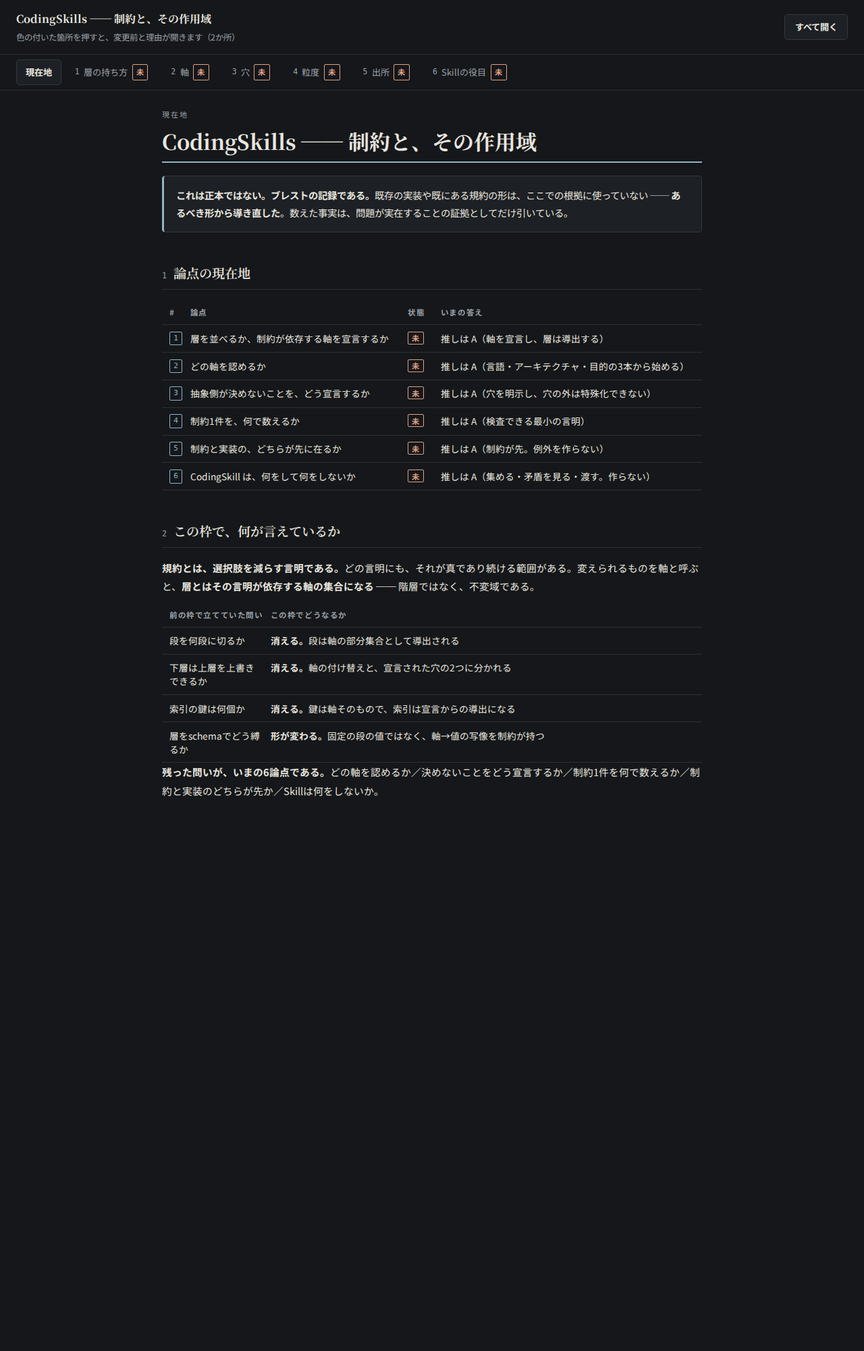
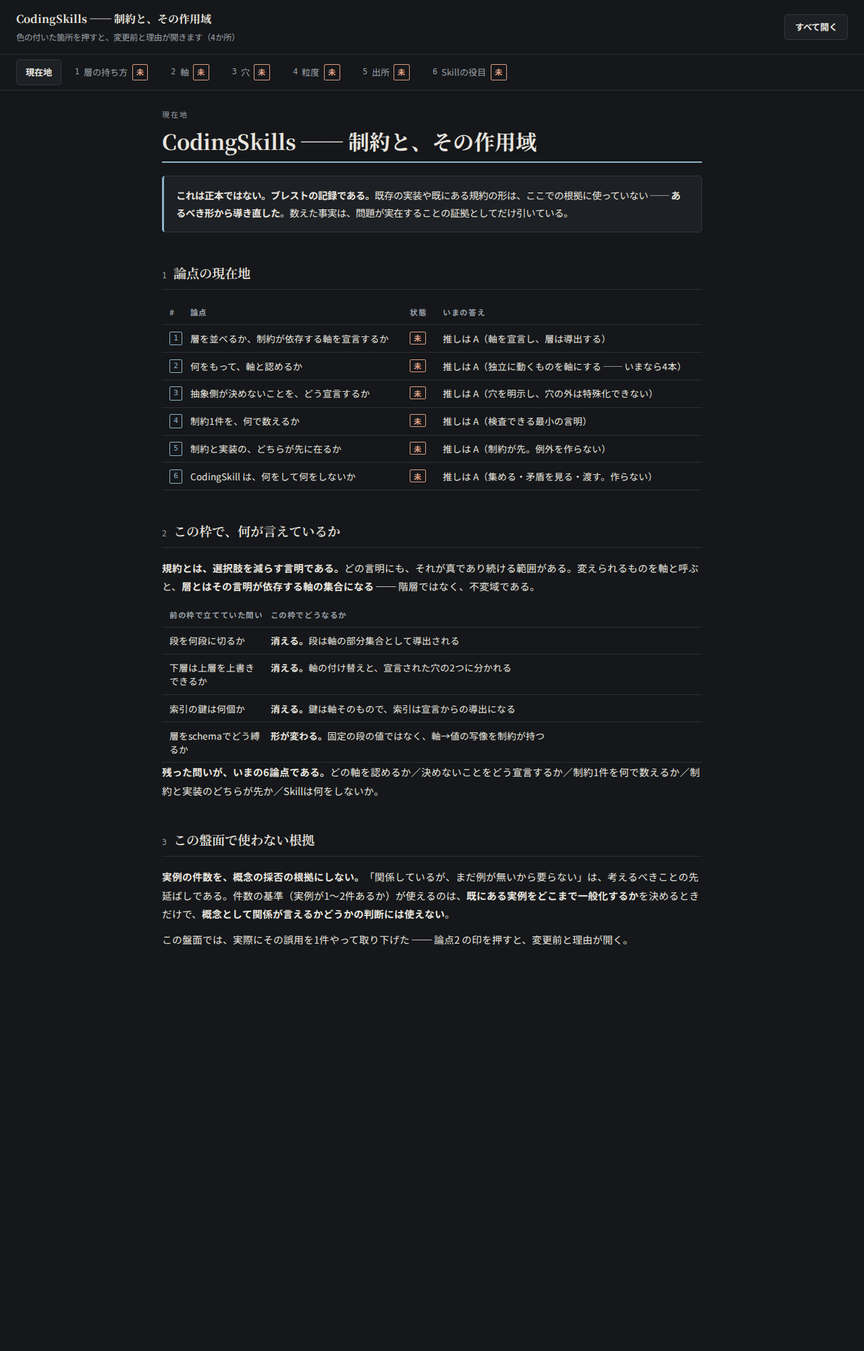
軸の判定を、実例の有無から独立性へ戻す
論点2 を「どの軸を認めるか」から「何をもって軸と認めるか」へ立て直した。
一方を固定してももう一方が動くなら別の軸である ── 独立性は概念の性質であり、
観測の頻度ではない。実行環境は目的と独立に動く（同じ API を常駐でも都度起動でも
書ける）ので、いま軸に上げる。「実例が出てから軸に上げる」は落とした案へ移し、
盤面には変更前と理由を印として残した。

Why: 「実例が出た時点で軸に上げる」と判断していた。これは実例2件以上という
抽象化のタイミングの基準を、概念どうしの関係の判断へ当てた誤用で、同じ誤用が
4度目になる。引いていた architecture-evidence-based-scope 自身が、項目13・19・20
で私の使い方を除外していたのに、見出しの原則2 だけを当てていた。

Claude-Session: https://claude.ai/code/session_01VoPqHBXHr7Npdh9tNXyFNU

Changed region(s): [[0.1875, 0.62, 0.7812, 0.713], [0.4688, 0.217, 0.7812, 0.372], [0.2188, 0.248, 0.3438, 0.279]]

diff --git a/docs/adr/brainstorm-coding-skills.html b/docs/adr/brainstorm-coding-skills.html
@@ -98,7 +98,7 @@ mark.chg.del b{text-decoration:line-through}
 .st.done{color:var(--key);border-color:var(--key)}
 .st.open{color:var(--add);border-color:var(--add)}
 section[role="tabpanel"][hidden]{display:none}
-</style><div class="hd"><div class="t">CodingSkills ── 制約と、その作用域<small>色の付いた箇所を押すと、変更前と理由が開きます（<span id="n">0</span>か所）</small></div><button id="all" type="button">すべて開く</button></div><div class="tabs" role="tablist"><button role="tab" aria-selected="true" data-t="p0">現在地</button><button role="tab" aria-selected="false" data-t="p1"><span class="tn">1</span>層の持ち方<span class="st open">未</span></button><button role="tab" aria-selected="false" data-t="p2"><span class="tn">2</span>軸<span class="st open">未</span></button><button role="tab" aria-selected="false" data-t="p3"><span class="tn">3</span>穴<span class="st open">未</span></button><button role="tab" aria-selected="false" data-t="p4"><span class="tn">4</span>粒度<span class="st open">未</span></button><button role="tab" aria-selected="false" data-t="p5"><span class="tn">5</span>出所<span class="st open">未</span></button><button role="tab" aria-selected="false" data-t="p6"><span class="tn">6</span>Skillの役目<span class="st open">未</span></button></div><main><section id="p0" role="tabpanel"><p class="eyebrow">現在地</p><h1>CodingSkills ── 制約と、その作用域</h1><div class="note"><b>これは正本ではない。ブレストの記録である。</b>既存の実装や既にある規約の形は、ここでの根拠に使っていない ── <b>あるべき形から導き直した</b>。数えた事実は、問題が実在することの証拠としてだけ引いている。</div><h2><span class="sn">1</span>論点の現在地</h2><div class="scroll"><table class=""><tr><th>#</th><th>論点</th><th>状態</th><th>いまの答え</th></tr><tr><td><span class="n">1</span></td><td>層を並べるか、制約が依存する軸を宣言するか</td><td><span class="st open">未</span></td><td>推しは A（軸を宣言し、層は導出する）</td></tr><tr><td><span class="n">2</span></td><td>どの軸を認めるか</td><td><span class="st open">未</span></td><td>推しは A（言語・アーキテクチャ・目的の3本から始める）</td></tr><tr><td><span class="n">3</span></td><td>抽象側が決めないことを、どう宣言するか</td><td><span class="st open">未</span></td><td>推しは A（穴を明示し、穴の外は特殊化できない）</td></tr><tr><td><span class="n">4</span></td><td>制約1件を、何で数えるか</td><td><span class="st open">未</span></td><td>推しは A（検査できる最小の言明）</td></tr><tr><td><span class="n">5</span></td><td>制約と実装の、どちらが先に在るか</td><td><span class="st open">未</span></td><td>推しは A（制約が先。例外を作らない）</td></tr><tr><td><span class="n">6</span></td><td>CodingSkill は、何をして何をしないか</td><td><span class="st open">未</span></td><td>推しは A（集める・矛盾を見る・渡す。作らない）</td></tr></table></div><h2><span class="sn">2</span>この枠で、何が言えているか</h2><p class='lead'><b>規約とは、選択肢を減らす言明である。</b>どの言明にも、それが真であり続ける範囲がある。変えられるものを軸と呼ぶと、<b>層とはその言明が依存する軸の集合になる</b> ── 階層ではなく、不変域である。</p><div class="scroll"><table class=""><tr><th>前の枠で立てていた問い</th><th>この枠でどうなるか</th></tr><tr><td>段を何段に切るか</td><td><b>消える。</b>段は軸の部分集合として導出される</td></tr><tr><td>下層は上層を上書きできるか</td><td><b>消える。</b>軸の付け替えと、宣言された穴の2つに分かれる</td></tr><tr><td>索引の鍵は何個か</td><td><b>消える。</b>鍵は軸そのもので、索引は宣言からの導出になる</td></tr><tr><td>層をschemaでどう縛るか</td><td><b>形が変わる。</b>固定の段の値ではなく、軸→値の写像を制約が持つ</td></tr></table></div><p class='lead'><b>残った問いが、いまの6論点である。</b>どの軸を認めるか／決めないことをどう宣言するか／制約1件を何で数えるか／制約と実装のどちらが先か／Skillは何をしないか。</p></section><section id="p1" role="tabpanel" hidden><p class="eyebrow">論点 1</p><h1>層を並べるか、制約が依存する軸を宣言するか</h1><div class="note"><b>制約とは、選択肢を減らす言明である。そしてどの制約にも、それが真であり続ける範囲がある。</b>変えられるものを軸と呼ぶと、<b>層とは、その制約が依存する軸の集合になる</b>。</div><h2><span class="sn">1</span>案の違いを、図で</h2><figure><svg viewBox="0 0 780 320" role="img" aria-label="各制約が依存する軸を宣言すると、層はその宣言から導出される">
+</style><div class="hd"><div class="t">CodingSkills ── 制約と、その作用域<small>色の付いた箇所を押すと、変更前と理由が開きます（<span id="n">0</span>か所）</small></div><button id="all" type="button">すべて開く</button></div><div class="tabs" role="tablist"><button role="tab" aria-selected="true" data-t="p0">現在地</button><button role="tab" aria-selected="false" data-t="p1"><span class="tn">1</span>層の持ち方<span class="st open">未</span></button><button role="tab" aria-selected="false" data-t="p2"><span class="tn">2</span>軸<span class="st open">未</span></button><button role="tab" aria-selected="false" data-t="p3"><span class="tn">3</span>穴<span class="st open">未</span></button><button role="tab" aria-selected="false" data-t="p4"><span class="tn">4</span>粒度<span class="st open">未</span></button><button role="tab" aria-selected="false" data-t="p5"><span class="tn">5</span>出所<span class="st open">未</span></button><button role="tab" aria-selected="false" data-t="p6"><span class="tn">6</span>Skillの役目<span class="st open">未</span></button></div><main><section id="p0" role="tabpanel"><p class="eyebrow">現在地</p><h1>CodingSkills ── 制約と、その作用域</h1><div class="note"><b>これは正本ではない。ブレストの記録である。</b>既存の実装や既にある規約の形は、ここでの根拠に使っていない ── <b>あるべき形から導き直した</b>。数えた事実は、問題が実在することの証拠としてだけ引いている。</div><h2><span class="sn">1</span>論点の現在地</h2><div class="scroll"><table class=""><tr><th>#</th><th>論点</th><th>状態</th><th>いまの答え</th></tr><tr><td><span class="n">1</span></td><td>層を並べるか、制約が依存する軸を宣言するか</td><td><span class="st open">未</span></td><td>推しは A（軸を宣言し、層は導出する）</td></tr><tr><td><span class="n">2</span></td><td>何をもって、軸と認めるか</td><td><span class="st open">未</span></td><td>推しは A（独立に動くものを軸にする ── いまなら4本）</td></tr><tr><td><span class="n">3</span></td><td>抽象側が決めないことを、どう宣言するか</td><td><span class="st open">未</span></td><td>推しは A（穴を明示し、穴の外は特殊化できない）</td></tr><tr><td><span class="n">4</span></td><td>制約1件を、何で数えるか</td><td><span class="st open">未</span></td><td>推しは A（検査できる最小の言明）</td></tr><tr><td><span class="n">5</span></td><td>制約と実装の、どちらが先に在るか</td><td><span class="st open">未</span></td><td>推しは A（制約が先。例外を作らない）</td></tr><tr><td><span class="n">6</span></td><td>CodingSkill は、何をして何をしないか</td><td><span class="st open">未</span></td><td>推しは A（集める・矛盾を見る・渡す。作らない）</td></tr></table></div><h2><span class="sn">2</span>この枠で、何が言えているか</h2><p class='lead'><b>規約とは、選択肢を減らす言明である。</b>どの言明にも、それが真であり続ける範囲がある。変えられるものを軸と呼ぶと、<b>層とはその言明が依存する軸の集合になる</b> ── 階層ではなく、不変域である。</p><div class="scroll"><table class=""><tr><th>前の枠で立てていた問い</th><th>この枠でどうなるか</th></tr><tr><td>段を何段に切るか</td><td><b>消える。</b>段は軸の部分集合として導出される</td></tr><tr><td>下層は上層を上書きできるか</td><td><b>消える。</b>軸の付け替えと、宣言された穴の2つに分かれる</td></tr><tr><td>索引の鍵は何個か</td><td><b>消える。</b>鍵は軸そのもので、索引は宣言からの導出になる</td></tr><tr><td>層をschemaでどう縛るか</td><td><b>形が変わる。</b>固定の段の値ではなく、軸→値の写像を制約が持つ</td></tr></table></div><p class='lead'><b>残った問いが、いまの6論点である。</b>どの軸を認めるか／決めないことをどう宣言するか／制約1件を何で数えるか／制約と実装のどちらが先か／Skillは何をしないか。</p><h2><span class="sn">3</span>この盤面で使わない根拠</h2><p class='lead'><b>実例の件数を、概念の採否の根拠にしない。</b>「関係しているが、まだ例が無いから要らない」は、考えるべきことの先延ばしである。件数の基準（実例が1〜2件あるか）が使えるのは、<b>既にある実例をどこまで一般化するか</b>を決めるときだけで、<b>概念として関係が言えるかどうかの判断には使えない</b>。</p><p class='lead'>この盤面では、実際にその誤用を1件やって取り下げた ── 論点2 の印を押すと、変更前と理由が開く。</p></section><section id="p1" role="tabpanel" hidden><p class="eyebrow">論点 1</p><h1>層を並べるか、制約が依存する軸を宣言するか</h1><div class="note"><b>制約とは、選択肢を減らす言明である。そしてどの制約にも、それが真であり続ける範囲がある。</b>変えられるものを軸と呼ぶと、<b>層とは、その制約が依存する軸の集合になる</b>。</div><h2><span class="sn">1</span>案の違いを、図で</h2><figure><svg viewBox="0 0 780 320" role="img" aria-label="各制約が依存する軸を宣言すると、層はその宣言から導出される">
 <text x="8" y="18" font-size="11.5" font-weight="700" fill="var(--muted)">制約</text>
 <text x="330" y="18" font-size="11.5" font-weight="700" fill="var(--muted)">依存する軸</text>
 <text x="600" y="18" font-size="11.5" font-weight="700" fill="var(--key)">導出される層</text>
@@ -165,7 +165,7 @@ section[role="tabpanel"][hidden]{display:none}
 <rect x="518" y="156" width="98" height="24" fill="none" stroke="var(--add)" stroke-width="1.6"/><text x="567" y="172" text-anchor="middle" font-size="10" fill="var(--add)">4　Hook</text>
 <rect x="624" y="156" width="98" height="24" fill="none" stroke="var(--add)" stroke-width="1.6"/><text x="673" y="172" text-anchor="middle" font-size="10" fill="var(--add)">4　MCP</text>
 <text x="412" y="212" font-size="11.5" font-weight="700" fill="var(--key)">同じことを書いた箇所は 0。直す場所は必ず 1 か所である</text>
-</svg><figcaption><b>層を持たないとどうなるかは、写しの数で見える。</b>目的別だけで並べると、同じ言明が目的の数だけ増え、写した先で少しずつ違う書き方になる。</figcaption></figure><h2><span class="sn">2</span>反証を通過した案</h2><div class="scroll"><table class="opts"><tr><th></th><th>案</th><th>中身</th><th>代償</th></tr><tr><td><span class="n ">A</span></td><td><b>各制約が、依存する軸を宣言する</b></td><td>層は宣言から導出される。フォルダは、その導出をどう並べて見せるかにすぎない</td><td><span class="cost">制約1件ごとに宣言を書く手間が増える。<b>層が一覧として見えないので、見せ方を別に作る</b></span></td></tr><tr><td><span class="n ">B</span></td><td><b>層をあらかじめ並べ、制約をそこへ置く</b></td><td>言語／アーキ／束ね／目的の段を先に決め、規約をその段へ配る</td><td><span class="cost"><b>軸が増えたとき、段の切り直しになる</b>。実行環境や規模を軸に足したくなった時点で、全部を並べ替える</span></td></tr><tr><td><span class="n ">C</span></td><td><b>層を持たず、場面ごとに規約一式を作る</b></td><td>目的と言語の組ごとに、必要な制約を全部書く</td><td><span class="cost">同じ言明が組の数だけ写る。<b>直す場所が1か所に決まらない</b></span></td></tr></table></div><h2><span class="sn">3</span>反証で分かったこと</h2><ul class='found'><li><b>「4段」は、軸を2本に絞ったときの部分集合にすぎなかった。</b>段数は決めるものではなく、軸から導出される</li><li><b>フォルダ構成は、この論点の答えではない。</b>導出をどう見せるかであって、何が真かとは別のこと</li></ul><h2><span class="sn">4</span>私の推しと、その連鎖</h2><p class="lead">推す案は <b class="pickn">A</b> である。</p><div class="scroll"><table class="chain"><tr><th>段</th><th>中身</th></tr><tr><td><span class="st">だから</span></td><td>同じ制約が2か所に現れるのは、依存する軸の宣言が足りないときである。層を先に並べると、その誤りが「どの段に置くか」の悩みとして現れ、原因が見えない</td></tr><tr><td><span class="st">結論</span></td><td><b>A ── 各制約が依存する軸を宣言し、層はそこから導出する</b></td></tr><tr><td><span class="st">引き受ける</span></td><td>層の一覧は導出物なので、人が見るための並べ方を別に用意する</td></tr><tr><td><span class="st">確かめていない</span></td><td>宣言の手間が、実際にどれだけ重いかは測っていない</td></tr></table></div><h2><span class="sn">5</span>あなたの見解</h2><div class="you">✏　記号を選ぶ（どれでもなければ、そう言う）</div><h2><span class="sn">6</span>決まり</h2><div class="next">選ばれた案が合意になり、次の論点へ</div></section><section id="p2" role="tabpanel" hidden><p class="eyebrow">論点 2</p><h1>どの軸を認めるか</h1><div class="note"><b>軸を増やすほど制約は正確になり、そのぶん宣言が重くなる。</b>ここは正しさではなく、どこで止めるかの判断である。</div><h2><span class="sn">1</span>案の違いを、図で</h2><figure><svg viewBox="0 0 780 210" role="img" aria-label="軸の値の組を入力すると、宣言が一致する制約が集まり、規約一式が導出される">
+</svg><figcaption><b>層を持たないとどうなるかは、写しの数で見える。</b>目的別だけで並べると、同じ言明が目的の数だけ増え、写した先で少しずつ違う書き方になる。</figcaption></figure><h2><span class="sn">2</span>反証を通過した案</h2><div class="scroll"><table class="opts"><tr><th></th><th>案</th><th>中身</th><th>代償</th></tr><tr><td><span class="n ">A</span></td><td><b>各制約が、依存する軸を宣言する</b></td><td>層は宣言から導出される。フォルダは、その導出をどう並べて見せるかにすぎない</td><td><span class="cost">制約1件ごとに宣言を書く手間が増える。<b>層が一覧として見えないので、見せ方を別に作る</b></span></td></tr><tr><td><span class="n ">B</span></td><td><b>層をあらかじめ並べ、制約をそこへ置く</b></td><td>言語／アーキ／束ね／目的の段を先に決め、規約をその段へ配る</td><td><span class="cost"><b>軸が増えたとき、段の切り直しになる</b>。実行環境や規模を軸に足したくなった時点で、全部を並べ替える</span></td></tr><tr><td><span class="n ">C</span></td><td><b>層を持たず、場面ごとに規約一式を作る</b></td><td>目的と言語の組ごとに、必要な制約を全部書く</td><td><span class="cost">同じ言明が組の数だけ写る。<b>直す場所が1か所に決まらない</b></span></td></tr></table></div><h2><span class="sn">3</span>反証で分かったこと</h2><ul class='found'><li><b>「4段」は、軸を2本に絞ったときの部分集合にすぎなかった。</b>段数は決めるものではなく、軸から導出される</li><li><b>フォルダ構成は、この論点の答えではない。</b>導出をどう見せるかであって、何が真かとは別のこと</li></ul><h2><span class="sn">4</span>私の推しと、その連鎖</h2><p class="lead">推す案は <b class="pickn">A</b> である。</p><div class="scroll"><table class="chain"><tr><th>段</th><th>中身</th></tr><tr><td><span class="st">だから</span></td><td>同じ制約が2か所に現れるのは、依存する軸の宣言が足りないときである。層を先に並べると、その誤りが「どの段に置くか」の悩みとして現れ、原因が見えない</td></tr><tr><td><span class="st">結論</span></td><td><b>A ── 各制約が依存する軸を宣言し、層はそこから導出する</b></td></tr><tr><td><span class="st">引き受ける</span></td><td>層の一覧は導出物なので、人が見るための並べ方を別に用意する</td></tr><tr><td><span class="st">確かめていない</span></td><td>宣言の手間が、実際にどれだけ重いかは測っていない。ただし<b>重さは採否の理由にならない</b> ── 導出が正しいかとは別の問いである</td></tr></table></div><h2><span class="sn">5</span>あなたの見解</h2><div class="you">✏　記号を選ぶ（どれでもなければ、そう言う）</div><h2><span class="sn">6</span>決まり</h2><div class="next">選ばれた案が合意になり、次の論点へ</div></section><section id="p2" role="tabpanel" hidden><p class="eyebrow">論点 2</p><h1>何をもって、軸と認めるか</h1><div class="note"><b>軸かどうかは、観測の頻度ではなく独立性で決まる。</b>一方を固定しても、もう一方が動くなら、それは別の軸である。<b>これは概念の性質なので、実例の有無とは関係なく、いま言える。</b></div><h2><span class="sn">1</span>案の違いを、図で</h2><figure><svg viewBox="0 0 780 210" role="img" aria-label="軸の値の組を入力すると、宣言が一致する制約が集まり、規約一式が導出される">
 <defs><marker id="k1" viewBox="0 0 10 10" refX="9" refY="5" markerWidth="7" markerHeight="7" orient="auto-start-reverse"><path d="M0 0 L10 5 L0 10 z" fill="var(--key)"/></marker></defs>
 <rect x="8" y="58" width="140" height="76" fill="none" stroke="var(--add)" stroke-width="1.8"/>
 <text x="78" y="80" text-anchor="middle" font-size="11.5" font-weight="700" fill="var(--add)">入力＝軸の値</text>
@@ -183,7 +183,7 @@ section[role="tabpanel"][hidden]{display:none}
 <text x="573" y="106" text-anchor="middle" font-size="10.5" fill="var(--muted)">＝この場面の規約一式</text>
 <text x="8" y="184" font-size="11.5" fill="var(--muted)">索引は決めるものではなく、<tspan font-weight="700" fill="var(--key)">宣言からの導出になる</tspan>。「鍵を何個にするか」という問いは消え、</text>
 <text x="8" y="202" font-size="11.5" fill="var(--muted)">残るのは<tspan font-weight="700" fill="var(--add)">どの軸を認めるか</tspan>だけになる。</text>
-</svg><figcaption><b>索引は宣言からの導出になる。</b>「鍵を何個にするか」という問いは消え、残るのはどの軸を認めるかだけになる。</figcaption></figure><h2><span class="sn">2</span>反証を通過した案</h2><div class="scroll"><table class="opts"><tr><th></th><th>案</th><th>中身</th><th>代償</th></tr><tr><td><span class="n ">A</span></td><td><b>言語・アーキテクチャ・目的の3本</b></td><td>書くものが変わるときに動くのは、この3つだと見る</td><td><span class="cost">実行環境（常駐するか、都度起動か）が目的の中に混ざる。<b>目的が2つの意味を運ぶ</b></span></td></tr><tr><td><span class="n ">B</span></td><td><b>3本＋実行環境の4本</b></td><td>常駐するAPIと、都度起動されるHookを、目的とは別の軸として分ける</td><td><span class="cost">軸が1本増えると、部分集合は7通りから15通りへ増える。宣言が重くなる</span></td></tr><tr><td><span class="n ">C</span></td><td><b>言語・目的の2本（アーキテクチャは目的が決める）</b></td><td>アーキテクチャは目的に従属するものとして、軸に数えない</td><td><span class="cost"><b>同じ目的を別のアーキテクチャで書けなくなる</b>。アーキテクチャを変える判断が、目的の作り直しになる</span></td></tr></table></div><h2><span class="sn">3</span>反証で分かったこと</h2><ul class='found'><li><b>軸を1本足すと、宣言できる層の数は倍になる。</b>足すかどうかは、その軸で実際に制約が分かれるかで決める</li><li><b>軸は後から足せる。</b>ただし足した時点で、既にある制約の宣言を見直すことになる ── 見直さないと、古い宣言が広すぎるまま残る</li></ul><h2><span class="sn">4</span>私の推しと、その連鎖</h2><p class="lead">推す案は <b class="pickn">A</b> である。</p><div class="scroll"><table class="chain"><tr><th>段</th><th>中身</th></tr><tr><td><span class="st">だから</span></td><td>軸は「実際に制約が分かれる」ことで正当化される。実行環境で制約が分かれる実例は、まだ手元に無い</td></tr><tr><td><span class="st">結論</span></td><td><b>A ── 3本から始める。</b>実行環境で制約が分かれる実例が出た時点で、軸に上げる</td></tr><tr><td><span class="st">引き受ける</span></td><td>当面、目的が実行環境の意味も運ぶ。分かれた時点で軸を足し、既存の宣言を見直す</td></tr></table></div><h2><span class="sn">5</span>あなたの見解</h2><div class="you">✏　記号を選ぶ（どれでもなければ、そう言う）</div><h2><span class="sn">6</span>決まり</h2><div class="next">選ばれた案が合意になり、次の論点へ</div></section><section id="p3" role="tabpanel" hidden><p class="eyebrow">論点 3</p><h1>抽象側が決めないことを、どう宣言するか</h1><div class="note">「目的Aでは違う」が出たとき、起きているのは上書きではない。<b>その制約が ｛言語｝ ではなく ｛言語, 目的｝ に依存していた、という発見である。</b>ただし、抽象側が意図して決めないこともある。</div><h2><span class="sn">1</span>案の違いを、図で</h2><figure><svg viewBox="0 0 780 260" role="img" aria-label="抽象側が宣言した穴だけを具体側が埋められる。穴の開いていない言明は特殊化できない">
+</svg><figcaption><b>索引は宣言からの導出になる。</b>「鍵を何個にするか」という問いは消え、残るのは何を軸と認めるかだけになる。</figcaption></figure><h2><span class="sn">2</span>反証を通過した案</h2><div class="scroll"><table class="opts"><tr><th></th><th>案</th><th>中身</th><th>代償</th></tr><tr><td><span class="n ">A</span></td><td><mark class="chg" tabindex="0" role="button" aria-expanded="false" data-b="言語・アーキテクチャ・目的の3本から始め、実行環境で制約が分かれる実例が出た時点で軸に上げる" data-w="軸の採否を「実例が出たら」で決めていた。これは『実例2件以上』という抽象化のタイミングの基準を、概念の妥当性の判断へ誤って当てたものである（同じ誤用が4度目）。独立性は概念の性質であって観測の頻度ではないので、実例を待つ理由が無い ── 同じ API を常駐でも都度起動でも書ける時点で、目的とは別の軸だと言える"><b>独立に動くものを、すべて軸にする</b></mark></td><td>いま独立性が言えるのは4本 ── 言語／アーキテクチャ／目的／実行環境（常駐か、都度起動か）</td><td><span class="cost">軸が1本増えると、宣言できる層は倍になる。<b>制約1件ごとに、4本ぶんの宣言を書く</b></span></td></tr><tr><td><span class="n ">B</span></td><td><b>実行環境は、目的に畳む</b></td><td>目的（API／Hook／MCP）が、実行のされ方まで含んで意味を持つ</td><td><span class="cost"><b>目的が2つの意味を運ぶ。</b>「常駐する Hook」を書きたくなった瞬間に、目的の名前が嘘になる</span></td></tr><tr><td><span class="n ">C</span></td><td><b>軸の集合を固定せず、宣言の中で足せるようにする</b></td><td>制約が「この軸に依存する」と書いたとき、その軸が無ければ足される</td><td><span class="cost"><b>同じものに2つの名前が付く</b>（実行環境／起動方式）。照合は名前の一致で行うので、揺れた時点で索引が効かなくなる</span></td></tr></table></div><h2><span class="sn">3</span>落とした案と、その理由</h2><div class="scroll"><table class="out"><tr><th></th><th>案</th><th>落とした理由</th></tr><tr><td><span class="n out">×</span></td><td><mark class="chg del" tabindex="0" role="button" aria-expanded="false" data-b="この案は残っていた" data-w="実例の件数は「まだ書いていない」ことしか意味せず、「要らない」ことを意味しない。概念として独立だと言えるなら、その時点で構造に入る ── 待つのは、考えるべきことの先延ばしである"><b>実例が出てから、軸に上げる</b></mark></td><td>実例の件数は「まだ書いていない」ことしか意味せず、「要らない」ことを意味しない。概念として独立だと言えるなら、その時点で構造に入る ── 待つのは、考えるべきことの先延ばしである</td></tr></table></div><h2><span class="sn">4</span>反証で分かったこと</h2><ul class='found'><li><b>軸の判定は、独立性という概念の性質で決まる。</b>観測の頻度で決めると、目的が2つの意味を運んだまま進む</li><li><b>軸を足すと、既にある制約の宣言を見直すことになる。</b>見直さないと、古い宣言が広すぎるまま残る ── これは軸を足すたびに毎回起きる</li></ul><h2><span class="sn">5</span>私の推しと、その連鎖</h2><p class="lead">推す案は <b class="pickn">A</b> である。</p><div class="scroll"><table class="chain"><tr><th>段</th><th>中身</th></tr><tr><td><span class="st">だから</span></td><td>同じ「API」を常駐でも都度起動でも書けるなら、実行環境は目的とは独立に動いている</td></tr><tr><td><span class="st">だから</span></td><td>独立に動くものを1つの軸に畳むと、その軸の値が2つの意味を運び、どちらの意味で一致したのかが決まらなくなる</td></tr><tr><td><span class="st">結論</span></td><td><b>A ── 独立に動くものを、すべて軸にする。</b>いま独立性が言えるのは4本である</td></tr><tr><td><span class="st">引き受ける</span></td><td>宣言が重くなる。制約1件ごとに、4本ぶんの依存を書く</td></tr><tr><td><span class="st">反証</span></td><td>5本目以降にも独立に動くものはありうる（規模・チーム・配布形）。<b>いま独立性を言い切れていないだけで、無いとは言えない</b></td></tr></table></div><h2><span class="sn">6</span>あなたの見解</h2><div class="you">✏　記号を選ぶ（どれでもなければ、そう言う）</div><h2><span class="sn">7</span>決まり</h2><div class="next">選ばれた案が合意になり、次の論点へ</div></section><section id="p3" role="tabpanel" hidden><p class="eyebrow">論点 3</p><h1>抽象側が決めないことを、どう宣言するか</h1><div class="note">「目的Aでは違う」が出たとき、起きているのは上書きではない。<b>その制約が ｛言語｝ ではなく ｛言語, 目的｝ に依存していた、という発見である。</b>ただし、抽象側が意図して決めないこともある。</div><h2><span class="sn">1</span>案の違いを、図で</h2><figure><svg viewBox="0 0 780 260" role="img" aria-label="抽象側が宣言した穴だけを具体側が埋められる。穴の開いていない言明は特殊化できない">
 <defs><marker id="h1" viewBox="0 0 10 10" refX="9" refY="5" markerWidth="7" markerHeight="7" orient="auto-start-reverse"><path d="M0 0 L10 5 L0 10 z" fill="var(--key)"/></marker>
 <marker id="h2" viewBox="0 0 10 10" refX="9" refY="5" markerWidth="7" markerHeight="7" orient="auto-start-reverse"><path d="M0 0 L10 5 L0 10 z" fill="var(--add)"/></marker></defs>
 <text x="8" y="18" font-size="11.5" font-weight="700" fill="var(--key)">抽象側（依存する軸が少ない制約）</text>
@@ -254,7 +254,7 @@ section[role="tabpanel"][hidden]{display:none}
 <text x="492" y="200" font-size="11.5" fill="var(--add)">実装の誤りが、そのまま制約になる。</text>
 <text x="492" y="220" font-size="11.5" font-weight="700" fill="var(--add)">誤りを指す先が、どこにも無くなる</text>
 <text x="492" y="176" font-size="11" fill="var(--muted)">これは手順の違いではなく、出所の向きの違いである</text>
-</svg><figcaption><b>実装が先に在ると、実装の誤りがそのまま制約になる。</b>誤りを指す先が、どこにも無くなる。</figcaption></figure><h2><span class="sn">2</span>反証を通過した案</h2><div class="scroll"><table class="opts"><tr><th></th><th>案</th><th>中身</th><th>代償</th></tr><tr><td><span class="n ">A</span></td><td><b>制約が先に在る。例外を作らない</b></td><td>既にあるコードへ手を入れるときも、まず制約を書き起こしてからテストへ落とす</td><td><span class="cost">既存コードでは、制約を書き起こす作業が先に要る。<b>手を入れるまでの距離が長くなる</b></span></td></tr><tr><td><span class="n ">B</span></td><td><b>後追いを認め、印を付けて区別する</b></td><td>既存コードから起こした制約には「観測された振る舞い」という印を付け、宣言と区別する</td><td><span class="cost"><b>印の付いた制約が積もると、どこまでが意図でどこからが現状かが混ざる</b>。しかも印は消しにくい</span></td></tr></table></div><h2><span class="sn">3</span>落とした案と、その理由</h2><div class="scroll"><table class="out"><tr><th></th><th>案</th><th>落とした理由</th></tr><tr><td><span class="n out">×</span></td><td><mark class="chg del" tabindex="0" role="button" aria-expanded="false" data-b="この案は残っていた" data-w="実装から起こした制約と、先に決めた制約が同じ顔で並ぶ。実装の誤りが規約に昇格しても、誰も気づけない"><b>区別しない</b></mark></td><td>実装から起こした制約と、先に決めた制約が同じ顔で並ぶ。実装の誤りが規約に昇格しても、誰も気づけない</td></tr></table></div><h2><span class="sn">4</span>反証で分かったこと</h2><ul class='found'><li><b>これは TDD という手順の名前の話ではない。</b>出所の向きの話であり、手順はその帰結にすぎない</li><li><b>テスト名が実装の名前を含むかどうかで、出所は機械的に見える。</b>実装から起こしたテストは、実装の語彙を引き写す</li></ul><h2><span class="sn">5</span>私の推しと、その連鎖</h2><p class="lead">推す案は <b class="pickn">A</b> である。</p><div class="scroll"><table class="chain"><tr><th>段</th><th>中身</th></tr><tr><td><span class="st">だから</span></td><td>実装から制約を起こすと、実装の誤りがそのまま制約になり、それを指す先が無くなる</td></tr><tr><td><span class="st">結論</span></td><td><b>A ── 制約が先に在る。</b>既存コードへ手を入れるときも、まず制約を書き起こす</td></tr><tr><td><span class="st">引き受ける</span></td><td>手を入れるまでの距離が長くなる。距離が問題になる実例が出たら、そこで測り直す</td></tr><tr><td><span class="st">反証</span></td><td>書き起こした制約が、実際には実装を読んで作られていることは、外からは見分けにくい</td></tr></table></div><h2><span class="sn">6</span>あなたの見解</h2><div class="you">✏　記号を選ぶ（どれでもなければ、そう言う）</div><h2><span class="sn">7</span>決まり</h2><div class="next">選ばれた案が合意になり、次の論点へ</div></section><section id="p6" role="tabpanel" hidden><p class="eyebrow">論点 6</p><h1>CodingSkill は、何をして何をしないか</h1><div class="note">制約を作る手順と、制約に従って書く手順は、<b>読む順が逆である</b> ── 作る側は軸から降り、使う側は入力から集める。</div><h2><span class="sn">1</span>反証を通過した案</h2><div class="scroll"><table class="opts"><tr><th></th><th>案</th><th>中身</th><th>代償</th></tr><tr><td><span class="n ">A</span></td><td><b>集める・矛盾を見る・渡す。制約は作らない</b></td><td>軸の値から制約を集め、同じ対象に矛盾が無いか見て、実行できるものはテストへ、それ以外は書き方の拘束へ渡す</td><td><span class="cost">制約が足りない場面で、Skill は止まる。<b>足りないことは言えるが、埋められない</b></span></td></tr><tr><td><span class="n ">B</span></td><td><b>足りなければ、その場で制約を起こす</b></td><td>集めた制約に穴があれば、Skill が新しい制約を宣言してから書く</td><td><span class="cost"><b>その場で起こした制約は、誰の承認も経ていない</b>。書くたびに規約が増え、正本が育たない</span></td></tr></table></div><h2><span class="sn">2</span>反証で分かったこと</h2><ul class='found'><li><b>「足りない」と言えること自体が、構造化の利得である</b> ── 不在が観測できる（論点2 の決着）</li><li>制約を起こす手順は、このSkillの中に置くが、<b>使う手順とは別の入口にする</b></li></ul><h2><span class="sn">3</span>私の推しと、その連鎖</h2><p class="lead">推す案は <b class="pickn">A</b> である。</p><div class="scroll"><table class="chain"><tr><th>段</th><th>中身</th></tr><tr><td><span class="st">だから</span></td><td>その場で起こした制約は承認を経ておらず、次に同じ場面が来たときに再現しない</td></tr><tr><td><span class="st">結論</span></td><td><b>A ── 集める・矛盾を見る・渡す。</b>足りなければ止めて、足りないと言う</td></tr><tr><td><span class="st">引き受ける</span></td><td>制約が育つまで、止まる場面が多くなる</td></tr></table></div><h2><span class="sn">4</span>あなたの見解</h2><div class="you">✏　記号を選ぶ（どれでもなければ、そう言う）</div><h2><span class="sn">5</span>決まり</h2><div class="next">選ばれた案が合意になり、次の論点へ</div></section></main>
+</svg><figcaption><b>実装が先に在ると、実装の誤りがそのまま制約になる。</b>誤りを指す先が、どこにも無くなる。</figcaption></figure><h2><span class="sn">2</span>反証を通過した案</h2><div class="scroll"><table class="opts"><tr><th></th><th>案</th><th>中身</th><th>代償</th></tr><tr><td><span class="n ">A</span></td><td><b>制約が先に在る。例外を作らない</b></td><td>既にあるコードへ手を入れるときも、まず制約を書き起こしてからテストへ落とす</td><td><span class="cost">既存コードでは、制約を書き起こす作業が先に要る。<b>手を入れるまでの距離が長くなる</b></span></td></tr><tr><td><span class="n ">B</span></td><td><b>後追いを認め、印を付けて区別する</b></td><td>既存コードから起こした制約には「観測された振る舞い」という印を付け、宣言と区別する</td><td><span class="cost"><b>印の付いた制約が積もると、どこまでが意図でどこからが現状かが混ざる</b>。しかも印は消しにくい</span></td></tr></table></div><h2><span class="sn">3</span>落とした案と、その理由</h2><div class="scroll"><table class="out"><tr><th></th><th>案</th><th>落とした理由</th></tr><tr><td><span class="n out">×</span></td><td><mark class="chg del" tabindex="0" role="button" aria-expanded="false" data-b="この案は残っていた" data-w="実装から起こした制約と、先に決めた制約が同じ顔で並ぶ。実装の誤りが規約に昇格しても、誰も気づけない"><b>区別しない</b></mark></td><td>実装から起こした制約と、先に決めた制約が同じ顔で並ぶ。実装の誤りが規約に昇格しても、誰も気づけない</td></tr></table></div><h2><span class="sn">4</span>反証で分かったこと</h2><ul class='found'><li><b>これは TDD という手順の名前の話ではない。</b>出所の向きの話であり、手順はその帰結にすぎない</li><li><b>テスト名が実装の名前を含むかどうかで、出所は機械的に見える。</b>実装から起こしたテストは、実装の語彙を引き写す</li></ul><h2><span class="sn">5</span>私の推しと、その連鎖</h2><p class="lead">推す案は <b class="pickn">A</b> である。</p><div class="scroll"><table class="chain"><tr><th>段</th><th>中身</th></tr><tr><td><span class="st">だから</span></td><td>実装から制約を起こすと、実装の誤りがそのまま制約になり、それを指す先が無くなる</td></tr><tr><td><span class="st">結論</span></td><td><b>A ── 制約が先に在る。</b>既存コードへ手を入れるときも、まず制約を書き起こす</td></tr><tr><td><span class="st">引き受ける</span></td><td>手を入れるまでの距離が長くなる。既存コードでは、制約を書き起こす作業が先に立つ</td></tr><tr><td><span class="st">反証</span></td><td>書き起こした制約が、実際には実装を読んで作られていることは、外からは見分けにくい</td></tr></table></div><h2><span class="sn">6</span>あなたの見解</h2><div class="you">✏　記号を選ぶ（どれでもなければ、そう言う）</div><h2><span class="sn">7</span>決まり</h2><div class="next">選ばれた案が合意になり、次の論点へ</div></section><section id="p6" role="tabpanel" hidden><p class="eyebrow">論点 6</p><h1>CodingSkill は、何をして何をしないか</h1><div class="note">制約を作る手順と、制約に従って書く手順は、<b>読む順が逆である</b> ── 作る側は軸から降り、使う側は入力から集める。</div><h2><span class="sn">1</span>反証を通過した案</h2><div class="scroll"><table class="opts"><tr><th></th><th>案</th><th>中身</th><th>代償</th></tr><tr><td><span class="n ">A</span></td><td><b>集める・矛盾を見る・渡す。制約は作らない</b></td><td>軸の値から制約を集め、同じ対象に矛盾が無いか見て、実行できるものはテストへ、それ以外は書き方の拘束へ渡す</td><td><span class="cost">制約が足りない場面で、Skill は止まる。<b>足りないことは言えるが、埋められない</b></span></td></tr><tr><td><span class="n ">B</span></td><td><b>足りなければ、その場で制約を起こす</b></td><td>集めた制約に穴があれば、Skill が新しい制約を宣言してから書く</td><td><span class="cost"><b>その場で起こした制約は、誰の承認も経ていない</b>。書くたびに規約が増え、正本が育たない</span></td></tr></table></div><h2><span class="sn">2</span>反証で分かったこと</h2><ul class='found'><li><b>「足りない」と言えること自体が、構造化の利得である</b> ── 不在が観測できる（論点2 の決着）</li><li>制約を起こす手順は、このSkillの中に置くが、<b>使う手順とは別の入口にする</b></li></ul><h2><span class="sn">3</span>私の推しと、その連鎖</h2><p class="lead">推す案は <b class="pickn">A</b> である。</p><div class="scroll"><table class="chain"><tr><th>段</th><th>中身</th></tr><tr><td><span class="st">だから</span></td><td>その場で起こした制約は承認を経ておらず、次に同じ場面が来たときに再現しない</td></tr><tr><td><span class="st">結論</span></td><td><b>A ── 集める・矛盾を見る・渡す。</b>足りなければ止めて、足りないと言う</td></tr><tr><td><span class="st">引き受ける</span></td><td>制約が育つまで、止まる場面が多くなる</td></tr></table></div><h2><span class="sn">4</span>あなたの見解</h2><div class="you">✏　記号を選ぶ（どれでもなければ、そう言う）</div><h2><span class="sn">5</span>決まり</h2><div class="next">選ばれた案が合意になり、次の論点へ</div></section></main>
 <script>
 (function(){
   const marks = [...document.querySelectorAll('mark.chg')];

diff --git a/.waffle/memory/feedback_evidence_based_scope_is_not_for_capability_decisions.md b/.waffle/memory/feedback_evidence_based_scope_is_not_for_capability_decisions.md
@@ -20,6 +20,18 @@ metadata:
 advisor のバックボーン knowledge にも入っていなかったこと。advisor 2体が同じ誤用をし、
 突き合わせる材料が手元に無かった。
 
+**4度目（2026-09-05）。** CodingSkills の設計で、「実行環境を軸に認めるか」を
+「制約が分かれる実例が出た時点で軸に上げる」と判断した。**軸かどうかは独立性という概念の性質で決まり、
+観測の頻度とは関係が無い**（同じ API を常駐でも都度起動でも書けるなら、実行環境は目的と独立に動く）。
+ユーザーの指摘は「実例があるかどうかの具体ではなく、概念として考えるべきかという話をしている。
+関係しているがまだ例が無いから要らない、は考えるべきことの先延ばしである」。
+
+**このときは knowledge も共有メモリも揃っていた。** `architecture-evidence-based-scope` は
+項目13 で「既にあるケースの中に見える構造的な違いを正確に表現してよいかには適用しない」、
+項目19 で「名前を与える変更は射程外」、項目20 で「独立に動くなら種別ではなく直交する軸」と
+除外規定を持っている。**それでも見出しの原則2（実例1〜2件あるか）だけを引いた。**
+不足しているのは記録ではなく、**引くときに除外規定まで読むこと**である。
+
 **How to apply:**
 - 実例の件数を根拠に保留を提案する前に、**目的の記述に戻る**。目的が名指ししている対象が
   その能力を要求していないか確かめる
@@ -27,5 +39,9 @@ advisor のバックボーン knowledge にも入っていなかったこと。a
   advisor の守備範囲の外にあることが多い
 - 件数の基準を使ってよいのは「実例をどこまで一般化するか」を決めるときだけ。
   「作るか作らないか」には使わない
+- **概念どうしの関係（独立か、従属か）を判断するときは、件数を持ち出さない。**
+  独立性・包含・直交は概念の性質であって、観測の頻度ではない
+- **`architecture-evidence-based-scope` を引くときは、原則2 だけでなく項目13・19・20 まで読む。**
+  除外規定を読まずに見出しを当てたのが、4度目の直接の原因である
 
 関連: [[project_ddd_abstraction_boundary_conclusions]]

diff --git a/.waffle/memory/MEMORY.md b/.waffle/memory/MEMORY.md
@@ -16,7 +16,7 @@
 - [schema を変えるのは実装である](feedback_schema_change_is_implementation.md) — 決定→仕様→実装。仕様を飛ばすと説明の無い構造が増える
 - [既存へ肉付けせず、あるべき形へ直す](feedback_correct_toward_the_right_form_not_the_existing_one.md) — 前提が変わった構造に規則を足さない。AIで直す手間は安くなった
 - [再定義では既存を根拠にしない](feedback_redefinition_does_not_reason_from_the_existing.md) — 実測は数えるためであって、あるべき形を決める根拠にはしない。2026-08-18に3回差し戻された
-- [実例の件数で能力の要否を決めない](feedback_evidence_based_scope_is_not_for_capability_decisions.md) — 抽象化のタイミングの基準であって、構造の妥当性の検査には使えない
+- [実例の件数で能力の要否を決めない](feedback_evidence_based_scope_is_not_for_capability_decisions.md) — 抽象化のタイミングの基準であって、構造の妥当性・概念どうしの関係には使えない。**4度目(2026-09-05)は、引いた knowledge 自身の除外規定を読まずに見出しだけ当てた**
 
 ## 主題（仕様と実装の抽象境界）
 
